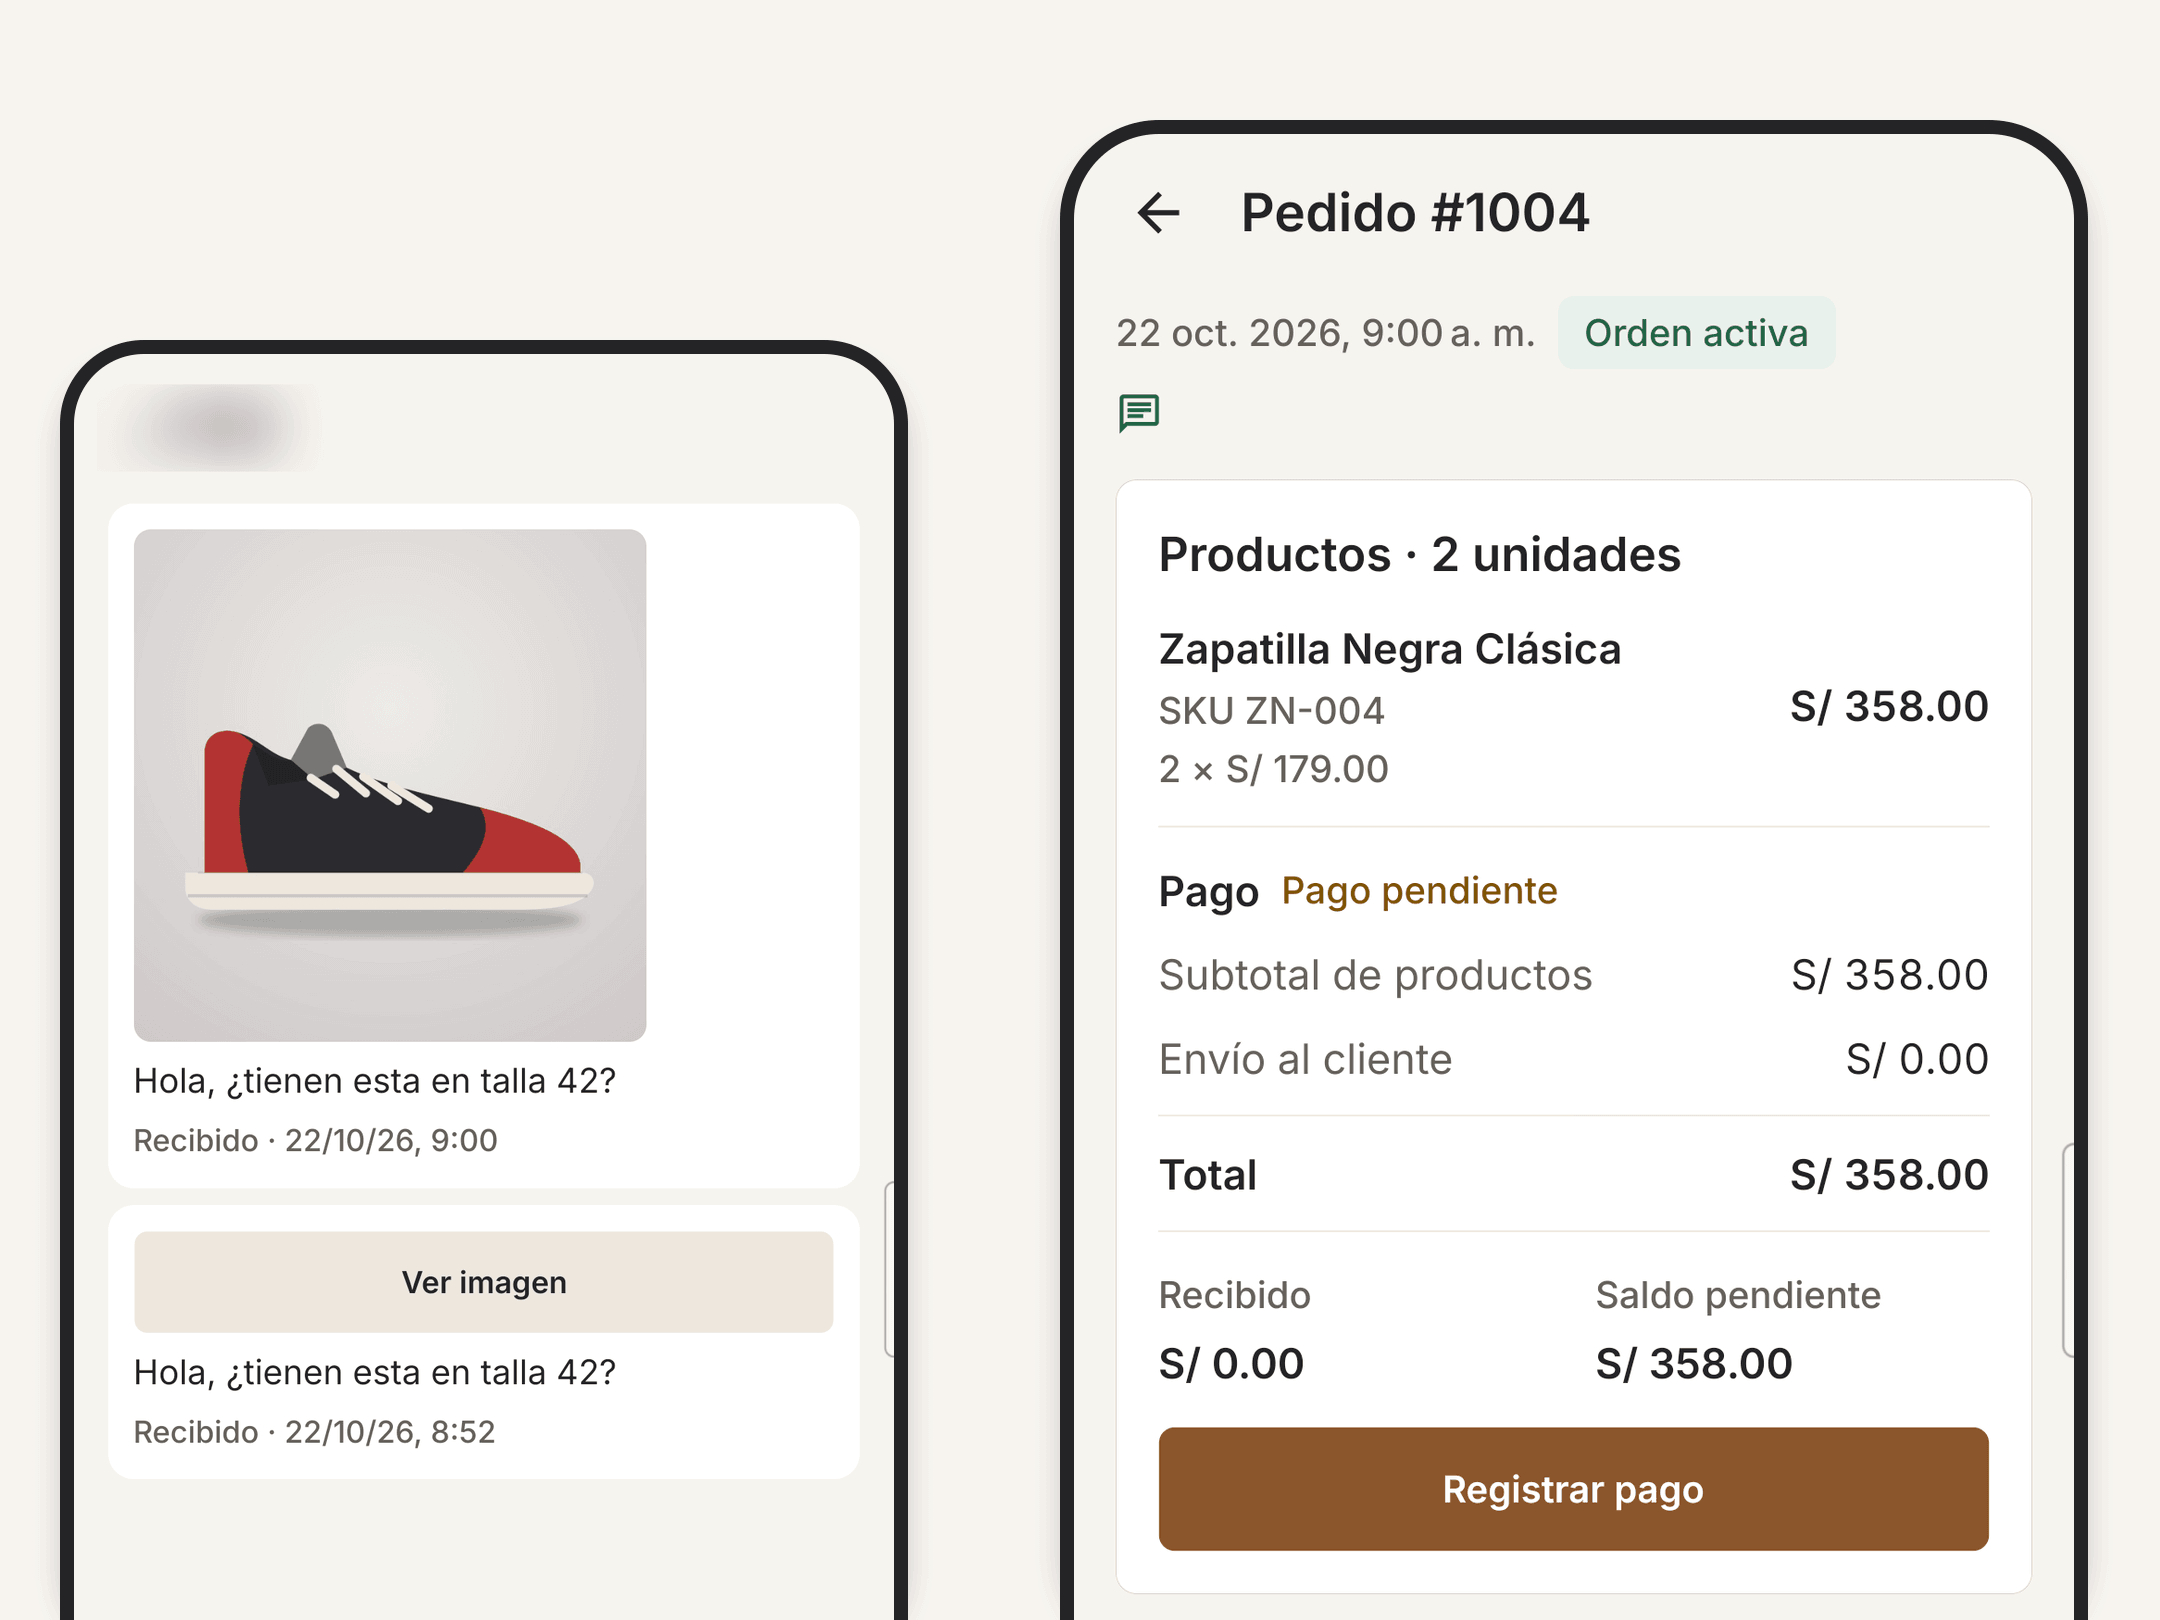
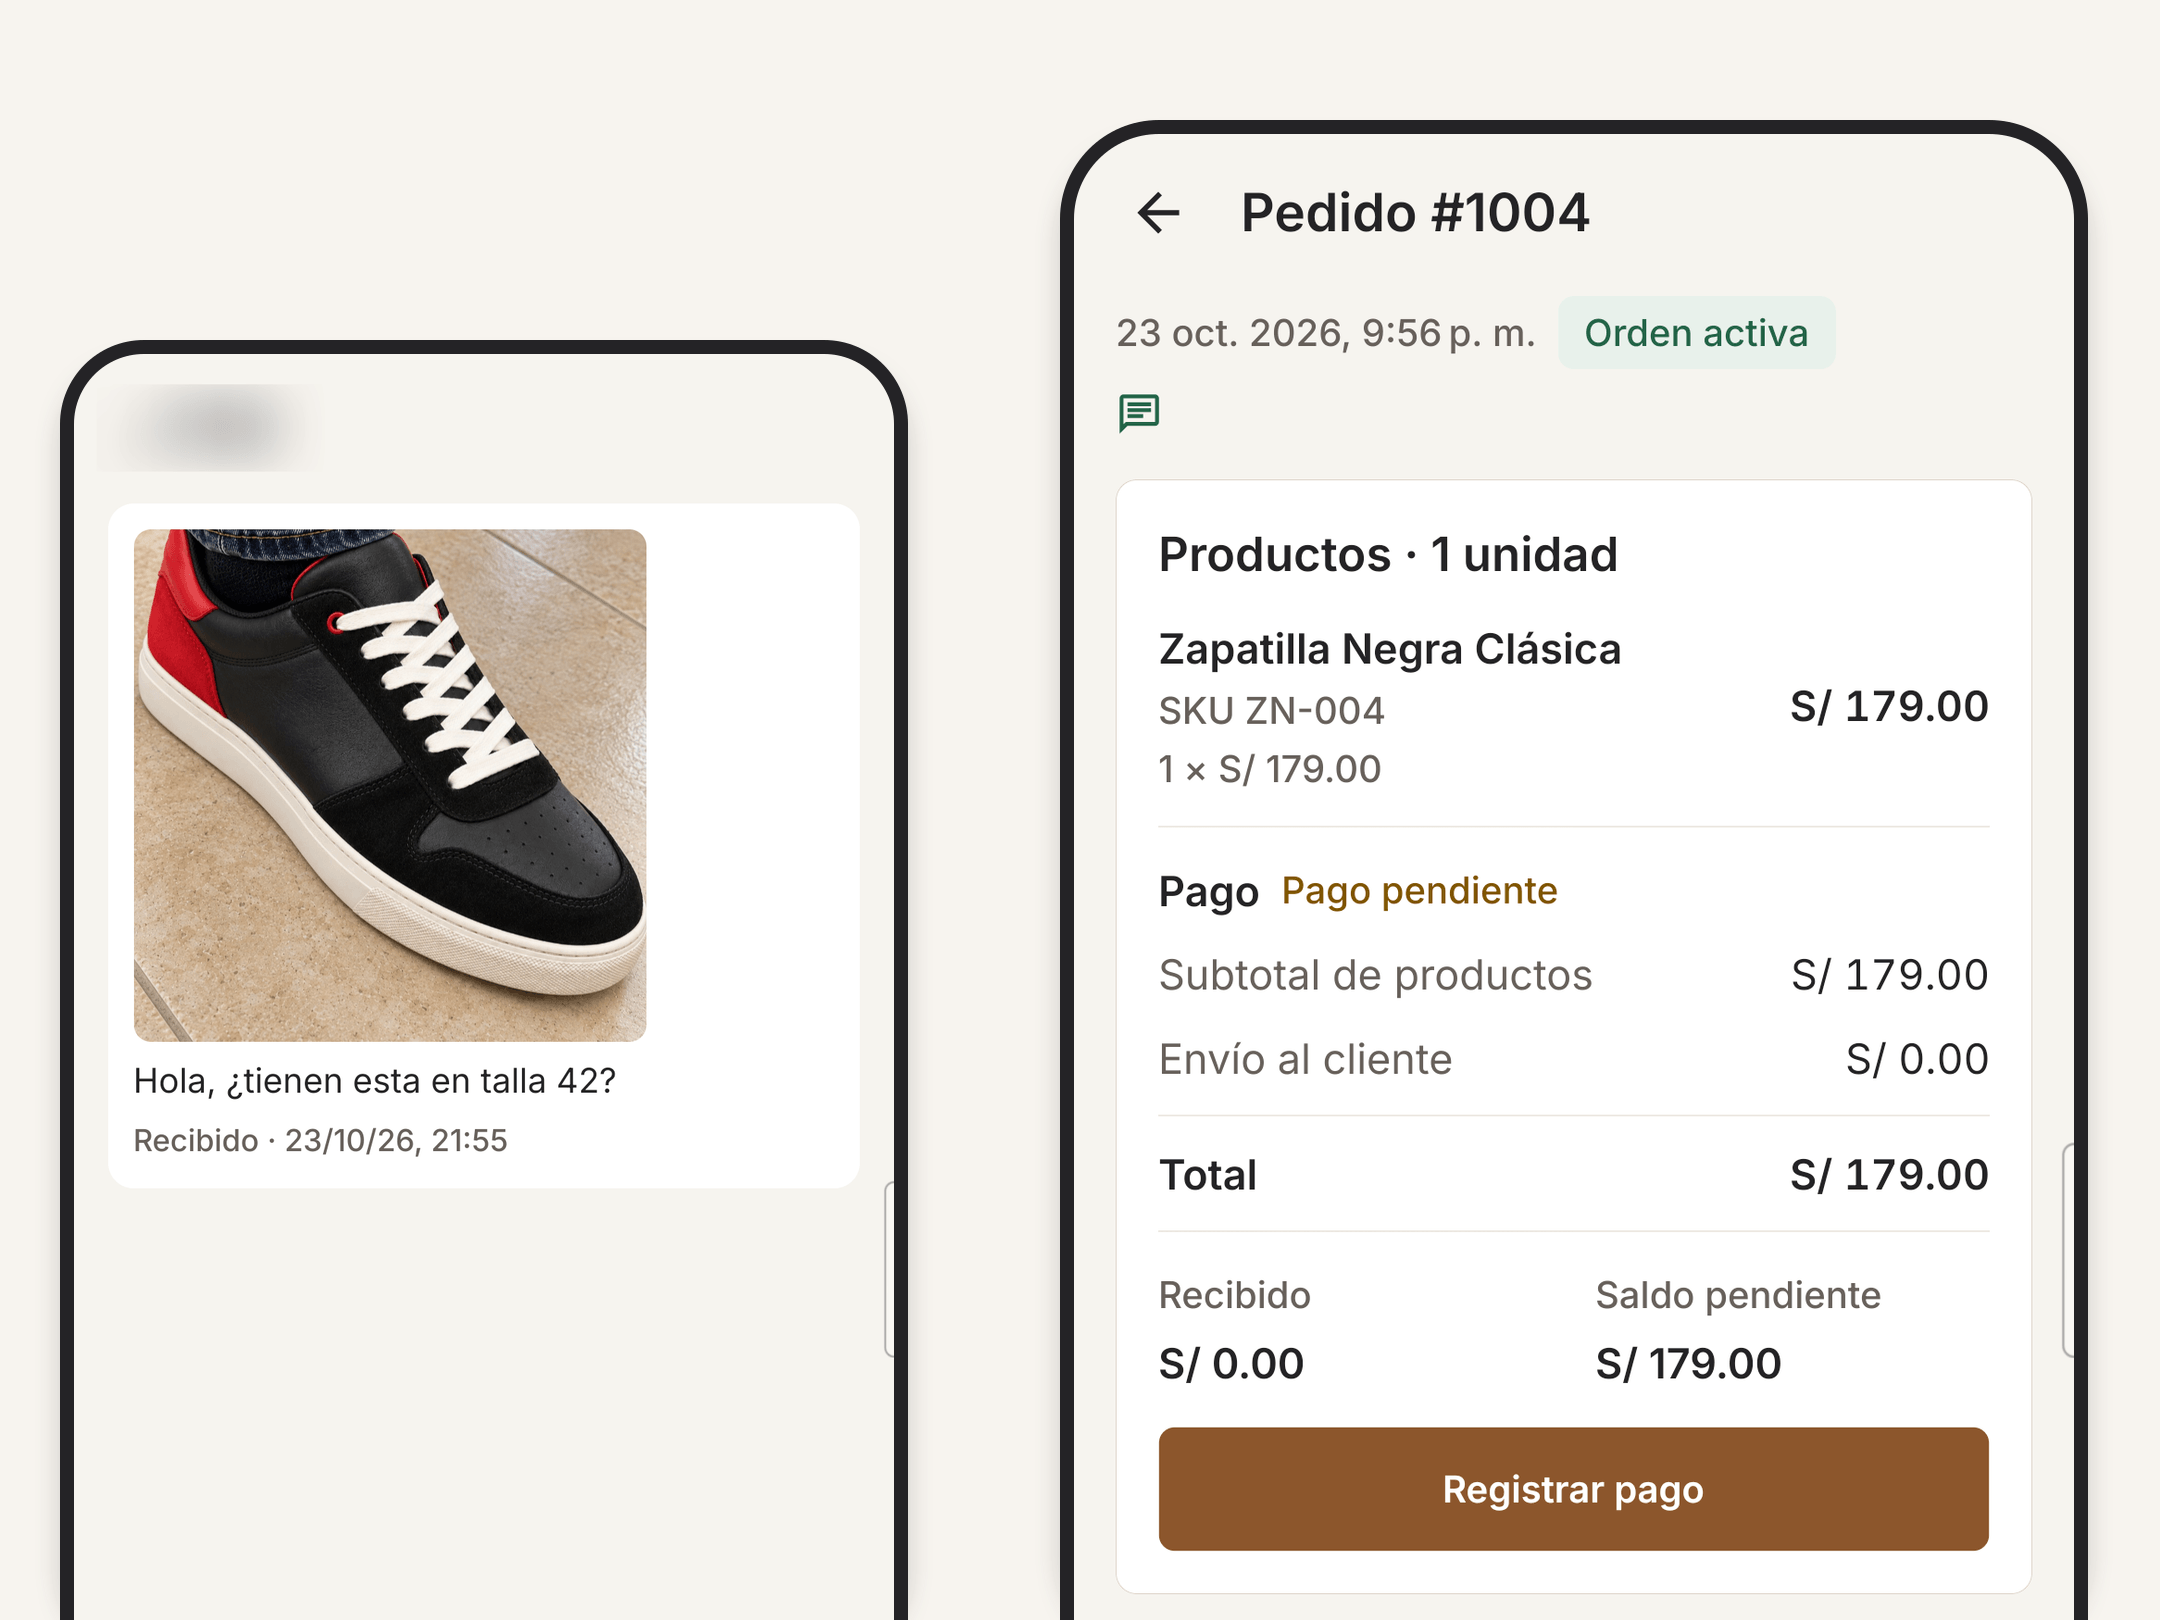
Recapture landing screenshots with real product photos
Order-from-photo slots now show the demo store's photographed catalog
and the order #1004 that core created from a WhatsApp photo; the hero
alt text follows the new S/ 179.00 total.

diff --git a/landing/tests/build-output/home-sections.test.ts b/landing/tests/build-output/home-sections.test.ts
@@ -7,7 +7,7 @@ const text = (node: HTMLElement | null | undefined): string => node?.text.replac
 const home = (variant: "minimal" | "full") => readPage(variant, "index.html");
 
 const heroAlt =
-  "Chat de WhatsApp con la foto de unas zapatillas que envió un cliente, junto al pedido #1004 que Yoyos armó con su total de S/ 358.00";
+  "Chat de WhatsApp con la foto de unas zapatillas que envió un cliente, junto al pedido #1004 que Yoyos armó con su total de S/ 179.00";
 
 const stepAlts = [
   "Formulario Nuevo producto en Yoyos con nombre, descripción, SKU, precio de venta, foto y stock inicial",

diff --git a/landing/src/content/sections/hero-image.ts b/landing/src/content/sections/hero-image.ts
@@ -4,6 +4,6 @@ import image from "@landing/src/assets/screenshots/hero-pedido-desde-foto.png";
 export const heroImage: ScreenshotSlot = {
   kind: "image",
   image,
-  alt: "Chat de WhatsApp con la foto de unas zapatillas que envió un cliente, junto al pedido #1004 que Yoyos armó con su total de S/ 358.00",
+  alt: "Chat de WhatsApp con la foto de unas zapatillas que envió un cliente, junto al pedido #1004 que Yoyos armó con su total de S/ 179.00",
   aspectRatio: "4/5",
 };
